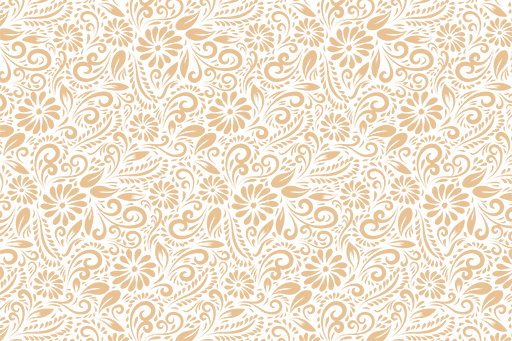
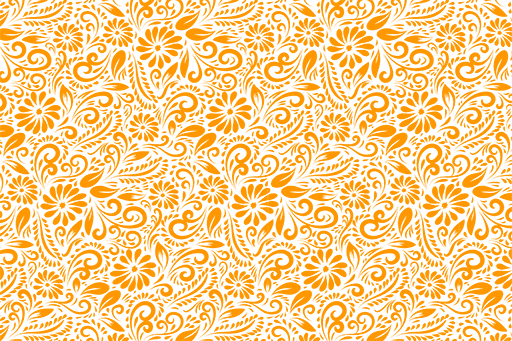
Added new images to item's

diff --git a/lib/presentation/sixColumns/six_column_container.dart b/lib/presentation/sixColumns/six_column_container.dart
@@ -46,21 +46,21 @@ class SixColumnsContainer extends StatelessWidget {
                 title: 'Сура «Аль-Кахф»',
                 isLeft: true,
                 routeName: 'surah_qahf_page',
-                imageName: 'pattern.png',
+                imageName: 'background_item.png',
               ),
               SizedBox(height: 8),
               ColumnItem(
                 title: 'Сура «Ас-Саджда»',
                 isLeft: true,
                 routeName: 'surah_sajdah_page',
-                imageName: 'background_item.png',
+                imageName: 'first_surah.png',
               ),
               SizedBox(height: 8),
               ColumnItem(
                 title: 'Сура «Аль-Мульк»',
                 isLeft: true,
                 routeName: 'surah_mulk_page',
-                imageName: 'supplication.png',
+                imageName: 'second_surah.png',
               ),
             ],
           ),

diff --git a/lib/presentation/sixColumns/column_item.dart b/lib/presentation/sixColumns/column_item.dart
@@ -38,7 +38,9 @@ class ColumnItem extends StatelessWidget {
                 : AppStyles.rightBorderRadius,
             image: DecorationImage(
               fit: BoxFit.fitWidth,
-              opacity: Theme.of(context).brightness == Brightness.light ? 0.75 : 0.25,
+              opacity: Theme.of(context).brightness == Brightness.light
+                  ? 0.50
+                  : 0.25,
               image: AssetImage('assets/images/$imageName'),
             ),
           ),
@@ -50,7 +52,7 @@ class ColumnItem extends StatelessWidget {
               color: appColors.mainTextColor,
               shadows: [
                 Shadow(
-                  color: appColors.firstAppColor,
+                  color: appColors.mainTextColor,
                   blurRadius: 0.5,
                 )
               ],

diff --git a/lib/presentation/restTime/rest_time_container.dart b/lib/presentation/restTime/rest_time_container.dart
@@ -26,8 +26,14 @@ class _RestTimeContainerState extends State<RestTimeContainer> {
         decoration: BoxDecoration(
           borderRadius: AppStyles.mainBorderRadius,
           image: DecorationImage(
-            opacity: Theme.of(context).brightness == Brightness.light ? 0.150 : 0.150,
-            fit: BoxFit.none,
+            opacity: 0.200,
+            fit: BoxFit.fitWidth,
+            colorFilter: ColorFilter.mode(
+              appColors.mainTextColor,
+              Theme.of(context).brightness == Brightness.light
+                  ? BlendMode.dst
+                  : BlendMode.srcIn,
+            ),
             image: const AssetImage('assets/images/abstract_time.png'),
           ),
         ),
